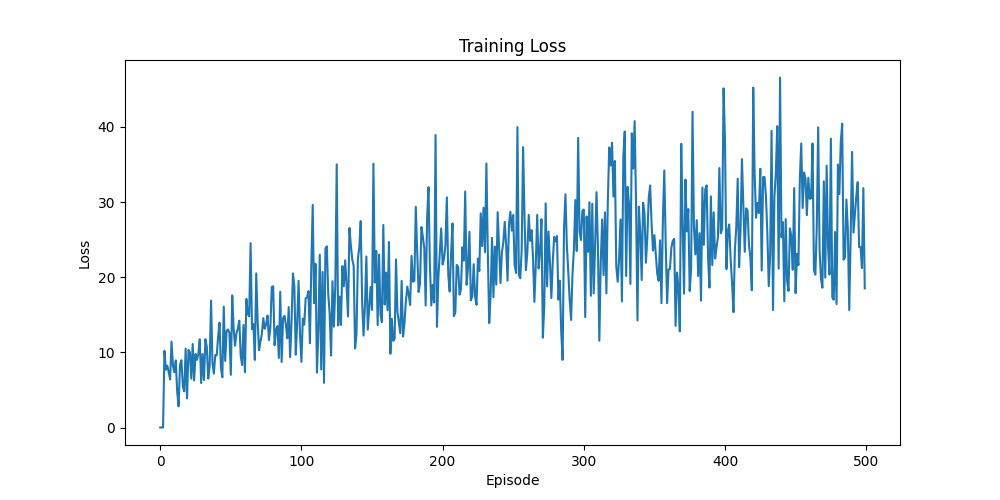
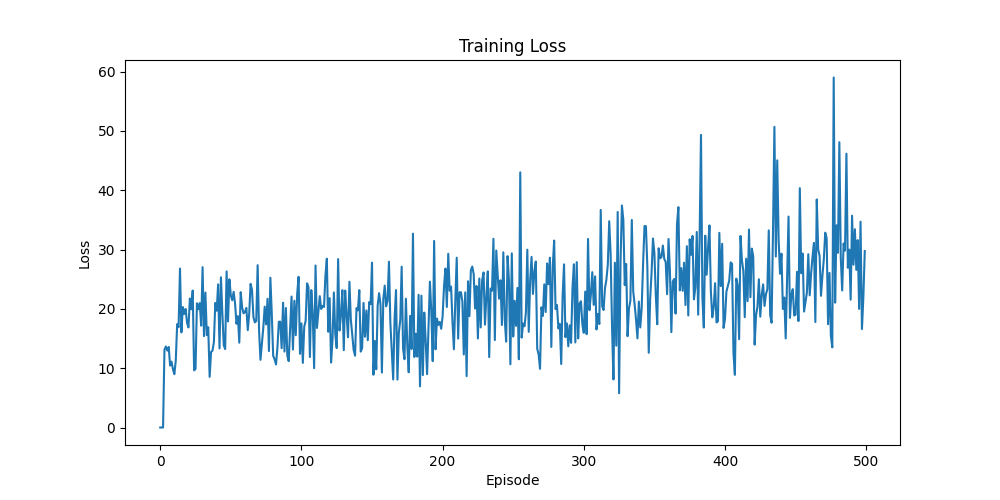
(feat): top-k recommended

diff --git a/models/dqn_agent.py b/models/dqn_agent.py
@@ -42,8 +42,11 @@ class DQNAgent:
 
         if random.random() < self.epsilon:
 
-            return random.randint(0, self.action_dim - 1)
-        
+            return random.sample(
+                range(self.action_dim),
+                5
+            )
+                
         state = np.array(state) / self.action_dim
 
         state_tensor = torch.FloatTensor(
@@ -54,11 +57,12 @@ class DQNAgent:
 
             q_values = self.model(state_tensor)
         
-        action = torch.argmax(
-            q_values
-        ).item()
+        top_actions = torch.topk(
+            q_values[0],
+            k=5
+        ).indices
 
-        return action
+        return top_actions.tolist()
     
     def replay(self):
 
@@ -74,11 +78,15 @@ class DQNAgent:
 
         for (
             state,
-            action,
+            actions,
             reward,
             next_state,
             done
         ) in batch:
+
+            # =========================
+            # Normalize state
+            # =========================
 
             state = np.array(state) / self.action_dim
 
@@ -92,22 +100,43 @@ class DQNAgent:
                 next_state
             ).unsqueeze(0)
 
-            current_q = self.model(
+            # =========================
+            # Current Q
+            # =========================
+
+            q_values = self.model(
                 state_tensor
-            )[0][action]
+            )
+
+            current_q = q_values[0][actions]
+
+            current_q = current_q.mean()
+
+            # =========================
+            # Target Q
+            # =========================
 
             if done:
 
                 target_q = torch.tensor(
                     reward,
-                    dtype=torch.float32)
+                    dtype=torch.float32
+                )
+
             else:
 
                 with torch.no_grad():
 
-                    max_next_q = torch.max(
-                        self.model(next_state_tensor)
-                    )
+                    next_q_values = self.model(
+                        next_state_tensor
+                    )[0]
+
+                    top_next_q = torch.topk(
+                        next_q_values,
+                        k=5
+                    ).values
+
+                    max_next_q = top_next_q.mean()
 
                 target_q = (
                     reward
@@ -120,12 +149,20 @@ class DQNAgent:
                     10
                 )
 
+            # =========================
+            # Loss
+            # =========================
+
             loss = self.loss_fn(
                 current_q,
                 target_q
             )
 
             total_loss += loss.item()
+
+            # =========================
+            # Backpropagation
+            # =========================
 
             self.optimizer.zero_grad()
 
@@ -137,6 +174,10 @@ class DQNAgent:
             )
 
             self.optimizer.step()
+
+        # =========================
+        # Epsilon decay
+        # =========================
 
         if self.epsilon > self.epsilon_min:
 

diff --git a/env/recommendation_env.py b/env/recommendation_env.py
@@ -32,33 +32,55 @@ class RecommendationEnv:
 
         return np.array(self.state)
     
-    def step(self, action):
+    def step(self, actions):
 
-        reward = 0
+        hits = 0
 
-        if (
-            action in self.current_history
-            and action not in self.recommended_items
-        ):
-            reward = 5
-        else:
-            reward = -1
+        next_state = self.state.copy()
 
-        self.recommended_items.add(action)
+        # =========================
+        # Check recommended items
+        # =========================
+
+        for item in actions:
+
+            if (
+                item in self.current_history
+                and item not in self.recommended_items
+            ):
+
+                hits += 1
+
+                self.recommended_items.add(item)
+
+                # =========================
+                # Update state
+                # =========================
+
+                next_state.pop(0)
+
+                next_state.append(item)
+
+        # =========================
+        # Reward
+        # =========================
+
+        reward = hits * 5
+
+        # Optional penalty
+        if hits == 0:
+
+            reward = -2
+
+        # =========================
+        # Environment step
+        # =========================
 
         self.current_step += 1
 
         done = (
             self.current_step >= self.max_steps
         )
-
-        next_state = self.state.copy()
-
-        if reward > 0:
-
-            next_state.pop(0)
-
-            next_state.append(action)
 
         self.state = next_state
 

diff --git a/evaluation/evaluate_dqn.py b/evaluation/evaluate_dqn.py
@@ -24,11 +24,12 @@ def evaluate():
         indexed_history = pickle.load(f)
 
     # =========================
-    # Create environment
+    # Environment settings
     # =========================
 
     state_dim = 5
-    action_dim = 20
+
+    action_dim = 500
 
     env = RecommendationEnv(
         indexed_history
@@ -54,13 +55,13 @@ def evaluate():
     )
 
     # =========================
-    # Disable exploration
+    # Evaluation mode
     # =========================
 
     agent.epsilon = 0
 
     # =========================
-    # Evaluation settings
+    # Metrics
     # =========================
 
     episodes = 20
@@ -86,10 +87,10 @@ def evaluate():
         while not done:
 
             # =========================
-            # Agent chooses action
+            # Top-K recommendation
             # =========================
 
-            action = agent.choose_action(
+            actions = agent.choose_action(
                 state
             )
 
@@ -98,7 +99,7 @@ def evaluate():
             # =========================
 
             next_state, reward, done, _ = env.step(
-                action
+                actions
             )
 
             # =========================
@@ -107,11 +108,11 @@ def evaluate():
 
             episode_reward += reward
 
-            total_recommendations += 1
+            total_recommendations += len(actions)
 
             if reward > 0:
 
-                total_hits += 1
+                total_hits += reward / 5
 
             # =========================
             # Move to next state
@@ -153,7 +154,7 @@ def evaluate():
     )
 
     print(
-        f"Hit Rate: {hit_rate:.3f}"
+        f"Hit Rate@5: {hit_rate:.3f}"
     )
 
 

diff --git a/training/train_dqn.py b/training/train_dqn.py
@@ -64,7 +64,7 @@ if __name__ == "__main__":
         indexed_history = pickle.load(f)
 
     state_dim = 5
-    action_dim = 20
+    action_dim = 500
 
     env = RecommendationEnv(
         indexed_history